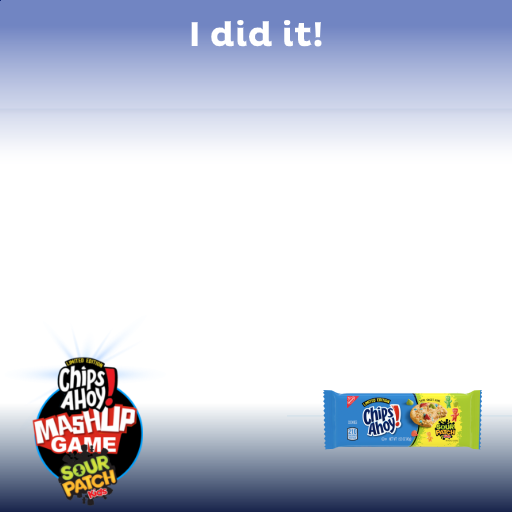
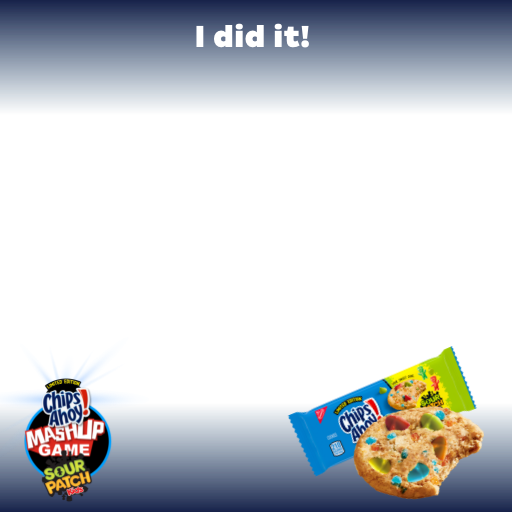
Update UI

diff --git a/www/css/main.min.css b/www/css/main.min.css
@@ -1,2 +1,2 @@
-body,button,input,select{font-size:15px}.bg-dark-custom,.bold{text-transform:uppercase}*,.wrapper-clock,.wrapper-clock *{box-sizing:border-box}*{padding:0;margin:0}a{text-decoration:none}li,ul{list-style:none}body{background-color:#317eba!important}.wrapper{min-width:100vw}button:focus,input:focus,select:focus{outline:0}.flex,.flex-align-center,.flex-between,.flex-center,.flex-justify-center,.loader-block{display:-webkit-box;display:flex}.flex-align-center,.flex-between,.flex-center,.loader-block{-webkit-box-align:center;align-items:center}.flex-center,.flex-justify-center,.loader-block{-webkit-box-pack:center;justify-content:center}.flex-between{-webkit-box-pack:justify;justify-content:space-between}.title{font-size:18px;font-weight:600;line-height:1.5}.btn-primary{width:218px;height:56px;border:0;background:#DCE23E;font-size:22px;color:#000;letter-spacing:2px;border-radius:30px}.btn-default{min-width:150px;padding-left:3px;padding-right:3px;height:45px;border-radius:30px;background:#0E6AA1;border:3px solid #1BA4FC;color:#fff;font-size:14px;letter-spacing:0}.btn-transparent{background:0 0;border:1px solid transparent}.container-custom{width:100vw;max-width:375px;margin:0 auto}.deep-yellow{color:#EED12F}.yellow-bg{background:#EED12F}.blue{color:#38E0FF}.green{color:#2FD252}.red{color:#F66E36}.mt-0{margin-top:0!important}.pt-15{padding-top:15px!important}.mt--20{margin-top:-20px}.mt--25{margin-top:-25px}.pd-8{padding:8px}.header__btn,.header__center{padding:10px}.header{width:100%;margin-bottom:25px;position:fixed;top:0;left:0;z-index:9}.header.header--game,.header.header-primary{background:#317eba}.header__btn{color:#fff;font-size:24px}.header__title{color:#fff}.header__right .btn-transparent.header__btn{opacity:0}.main.main--game{position:relative;z-index:10;pointer-events:none}.main.main--game button{pointer-events:visible}.logo{position:relative;z-index:1;overflow:hidden}.logo.logo--two-up .logo__container{overflow:hidden}.logo.logo--two-up .logo__img{margin-left:-45px;margin-top:-10px;max-width:240px}.logo.logo--two-up .logo__img img{width:100%;margin:0}.logo.logo--two-up.logo--game .logo__img{margin-left:-40px;max-width:55vw}.logo.logo--two-up.logo--selfie{padding-top:45px}.logo.logo--two-up.logo--selfie .logo__heading{position:static;-webkit-transform:none;transform:none}.logo__heading{max-width:155px;font-size:28px;line-height:calc(28/25);font-weight:400;color:#fff;position:absolute;right:25px;top:calc(50% + 25px);-webkit-transform:translateY(-50%);transform:translateY(-50%);text-align:center}.logo__container,.logo__img{position:relative}.logo__heading.logo__heading--center{max-width:100vw;margin-left:auto;margin-right:auto;margin-bottom:10px}.logo__sub-heading{margin-top:50px;padding-right:15px;font-size:45px;line-height:calc(24/45);font-weight:400;color:#fff}.logo__img{margin:-40px auto 0;max-width:calc(100vw - 40px)}.logo__img img{width:calc(100% + 60px);margin-left:-30px;height:100%;-o-object-fit:cover;object-fit:cover}.logo__img img.smallest-cookie{width:40px;height:36px;-o-object-fit:contain;object-fit:contain;left:calc(50% - 40px);bottom:25px}.logo__absolute{position:absolute}.btn-group,.face-block__container{position:relative}.mr-5{margin-right:5px}.mb-10{display:block;margin-bottom:10px!important}.mb-15{margin-bottom:15px}.mb-90{margin-bottom:90px}.mb-0{margin-bottom:0!important}.img-group__picture{max-width:185px;margin:0 auto}.img-group__picture img{-o-object-fit:contain;object-fit:contain}.img-group__container{margin-top:-20px;overflow:hidden}.img-group__smallest{height:60px}.img-group__smaller{margin-top:-25px;height:85px}.img-group__small{margin-top:-35px;height:130px}.img-group__big{margin-top:-180px;margin-left:calc(100% - 90px)}.mb-35{margin-bottom:35px}.mb-25{margin-bottom:25px}.mb-20{margin-bottom:20px!important}.try-again{max-width:250px;margin-left:auto;margin-right:auto}.play-again-icon{-webkit-transform:rotate(90deg);transform:rotate(90deg);display:block;font-size:25px}.btn-group{padding-bottom:10px;z-index:2}.btn-group button{display:block;margin:0 auto}.btn-group button.btn-primary{margin-bottom:30px}.btn-group button img{max-height:30vh}.btn-two-up button{margin-left:5px;margin-right:5px}.center-text{text-align:center}.list-number{margin-bottom:10px}.list-number.list--two-up{margin-top:10px}.list-number.list--two-up .list-number__list{padding:0 8px;-webkit-box-flex:1;flex:1}.list-number.list--two-up .list-number__item{margin-left:auto;margin-right:auto;text-align:center}.list-number.list--two-up .list-content{margin-top:0;text-align:center;font-size:15px}.list-number.list--two-up .list-number__row{margin-bottom:20px}.list-number.list-number--rules .list-number__list{padding:0 10px;color:#fff;font-family:Arial,Helvetica,sans-serif;word-break:break-word}.list-number .list-order{margin-right:5px;font-size:14px;line-height:calc(20/14)}.list-number .list-content{color:#fff;font-size:14px;font-weight:300;letter-spacing:0;line-height:calc(20/14)}.list-number__item{padding:4px 8px}.list-number__group-img{max-height:30vh;padding-right:5px}.bg-dark-custom{max-width:315px;margin:0 auto;padding:15px 10px;border-radius:31px;background:#1e588c;text-align:center}.block-countdown{min-width:58px;height:37px;margin-right:-10px;color:#111;font-size:22px;padding:13px 15px;background:#4fabfa;border-bottom-left-radius:20px;border-top-left-radius:20px}.face-block{margin-top:-95px;margin-bottom:20px}.face-block.face-block--selfie{margin-bottom:0;background:#0E6AA1}.face-block__frame{background-image:url(../img/photoframe.png);position:absolute;width:100%;height:100%;-o-object-fit:contain;object-fit:contain;top:0;background-size:cover;background-repeat:no-repeat;background-position:center}.face-block .block-center{width:180px;height:180px;position:absolute;top:50%;left:50%;-webkit-transform:translate(-50%,-50%);transform:translate(-50%,-50%);overflow:hidden}.absolute-center,.full-absolute{-webkit-transform:translate(-50%,-50%)}.face-block .block-center__inner{width:100%;height:100%;position:relative;background:rgba(13,27,48,.36);overflow:hidden;border:8px solid #4FABFA;border-radius:50%}.face-block__img{height:100vw;overflow:hidden}.face-block__img canvas,.face-block__img video{width:100%;height:100vw;-o-object-fit:cover;object-fit:cover}.face-block__img img{width:100%;height:auto}.absolute-img{width:178px;height:auto;min-height:120px;position:absolute;bottom:-75px;left:80px}.absolute-center{position:absolute;top:50%;left:50%;transform:translate(-50%,-50%)}.small-p{font-size:14px}.p{font-size:15px;font-weight:400;line-height:calc(20/14)}.bold{font-weight:700}.footer__des,.large,.sub-title{font-weight:400}.large-p{font-size:16px}.white-text{color:#fff}.footer__container{padding:30px 5px;position:relative;background:#0E6AA1}.footer__des{text-align:center;font-size:14px;line-height:calc(24/20);color:#fff}.deep-blue,.footer__des .blue{color:#4FABFA}.pb-25{padding-bottom:25px}.pb-10{padding-bottom:10px}.pb-0{padding-bottom:0!important}.camera-block{padding:20px 20px 40px;background:#0E6AA1;text-align:center}.sub-title{font-size:28px;line-height:calc(28/20)}.btn-square{width:65px;height:65px;border-radius:50%;background:#DCE23E;border:none}.btn-square i{font-size:34px}.content-block__container img{max-width:40vh}.loader-block{width:100%;height:100%;position:fixed;background:rgba(13,27,48,.36);top:0;left:0;z-index:9}.loader-block .loader{border:6px solid #f3f3f3;border-radius:50%;border-top:6px solid #3498db;width:40px;height:40px;-webkit-animation:spin 2s linear infinite;animation:spin 2s linear infinite}@-webkit-keyframes spin{0%{-webkit-transform:rotate(0)}100%{-webkit-transform:rotate(360deg)}}@keyframes spin{0%{-webkit-transform:rotate(0);transform:rotate(0)}100%{-webkit-transform:rotate(360deg);transform:rotate(360deg)}}.face-block__top{position:absolute;width:100%;padding:10px 20px;left:0;top:0}.font-large-title{font-size:28px;line-height:calc(30/30)}.font-large-des{font-size:24px;line-height:calc(20/24)}.face-block__bottom{width:100%;padding:0 5px 30px;margin-top:-10px;color:#fff;text-align:center}.face-block__bottom i{margin-right:5px;font-size:18px}.face-block__bottom span{font-weight:400;display:block;font-size:12px}.large{font-size:23px;white-space:nowrap}.topping{position:absolute;width:60px}.full-absolute,.group-candy{width:100vw;position:absolute}.topping-blue{bottom:20px;right:40px}.topping-green{left:10px;bottom:20px}.topping-orange{left:20px;top:5px}.topping-red{top:10px;right:10px}.full-absolute{height:100vh;top:50%;left:50%;transform:translate(-50%,-50%);z-index:3}.group-candy{top:-26px;left:0}.group-candy .circle-candy{width:45px;height:45px;margin:0 3px;border:3px solid #4FABFA;border-radius:50%;background:rgba(14,106,161,.53)}.group-candy .circle-candy img{width:22px}.clock-block{position:relative}.clock-block img{width:60px}.clock-inner{width:34px;height:34px;border:2px solid #fff;position:absolute;left:13px;top:16px;border-radius:50%}.wrapper-clock{background:#fff;width:30px;height:30px;border:1px solid #122641;overflow:hidden;position:absolute;top:50%;left:50%;-webkit-transform:translate(-50%,-50%);transform:translate(-50%,-50%);border-radius:50%}.wrapper-clock .pie{width:50%;height:100%;-webkit-transform-origin:100% 50%;transform-origin:100% 50%;position:absolute;background:#122641;border:0 solid rgba(0,0,0,.5)}.wrapper-clock .spinner{border-radius:100% 0 0 100%/50% 0 0 50%;z-index:200;border-right:none}.wrapper-clock:hover .filler,.wrapper-clock:hover .mask,.wrapper-clock:hover .spinner{-webkit-animation-play-state:running;animation-play-state:running}.wrapper-clock .filler{border-radius:0 100% 100% 0/0 50% 50% 0;left:calc(50% + 1px);opacity:0;z-index:100;border-left:none}.wrapper-clock-custom .filler{animation:opa 32s steps(1,end) forwards reverse}.wrapper-clock-custom .spinner{-webkit-animation:rota 32s linear forwards;animation:rota 32s linear forwards}.wrapper-clock-custom .mask{-webkit-animation:opa 32s steps(1,end) forwards;animation:opa 32s steps(1,end) forwards}.wrapper-clock .mask{width:50%;height:100%;position:absolute;background:inherit;opacity:1;z-index:300;border-top-left-radius:50%;border-bottom-left-radius:50%}@-webkit-keyframes rota{0%{-webkit-transform:rotate(0);transform:rotate(0)}100%{-webkit-transform:rotate(360deg);transform:rotate(360deg)}}@keyframes rota{0%{-webkit-transform:rotate(0);transform:rotate(0)}100%{-webkit-transform:rotate(360deg);transform:rotate(360deg)}}@-webkit-keyframes opa{0%{opacity:1}100%,50%{opacity:0}}@keyframes opa{0%{opacity:1}100%,50%{opacity:0}}.camera-block h3.deep-yellow.sub-title{font-size:24px}
+body,button,input,select{font-size:15px}.bg-dark-custom,.bold{text-transform:uppercase}*,.wrapper-clock,.wrapper-clock *{box-sizing:border-box}*{padding:0;margin:0}a{text-decoration:none}li,ul{list-style:none}body{background-color:#317eba!important}.wrapper{min-width:100vw}button:focus,input:focus,select:focus{outline:0}.flex,.flex-align-center,.flex-between,.flex-center,.flex-justify-center,.loader-block{display:-webkit-box;display:flex}.flex-align-center,.flex-between,.flex-center,.loader-block{-webkit-box-align:center;align-items:center}.flex-center,.flex-justify-center,.loader-block{-webkit-box-pack:center;justify-content:center}.flex-between{-webkit-box-pack:justify;justify-content:space-between}.title{font-size:18px;font-weight:600;line-height:1.5}.btn-primary{width:218px;height:56px;border:0;background:#DCE23E;font-size:22px;color:#000;letter-spacing:2px;border-radius:30px}.btn-default{min-width:150px;padding-left:3px;padding-right:3px;height:45px;border-radius:30px;background:#0E6AA1;border:3px solid #1BA4FC;color:#fff;font-size:14px;letter-spacing:0}.btn-transparent{background:0 0;border:1px solid transparent}.container-custom{width:100vw;max-width:375px;margin:0 auto}.deep-yellow{color:#EED12F}.yellow-bg{background:#EED12F}.blue{color:#38E0FF}.green{color:#2FD252}.red{color:#F66E36}.mt-0{margin-top:0!important}.pt-15{padding-top:15px!important}.mt--20{margin-top:-20px}.mt--25{margin-top:-25px}.pd-8{padding:8px}.header__btn,.header__center{padding:10px}.header{width:100%;margin-bottom:25px;position:fixed;top:0;left:0;z-index:9}.header.header--game,.header.header-primary{background:#317eba}.header__btn{color:#fff;font-size:24px}.header__title{color:#fff}.header__right .btn-transparent.header__btn{opacity:0}.main.main--game{position:relative;z-index:10;pointer-events:none}.main.main--game button{pointer-events:visible}.logo{position:relative;z-index:1;overflow:hidden}.logo.logo--two-up .logo__container{overflow:hidden}.logo.logo--two-up .logo__img{margin-left:5px;margin-top:25px;max-width:120px}.logo.logo--two-up .logo__img img{width:100%;margin:0}.logo.logo--two-up.logo--game .logo__img{margin-left:10px;max-width:100px;margin-top:30px}.logo.logo--two-up.logo--selfie{padding-top:45px}.logo.logo--two-up.logo--selfie .logo__heading{position:static;-webkit-transform:none;transform:none}.logo__heading{max-width:155px;font-size:28px;line-height:calc(28/25);font-weight:400;color:#fff;position:absolute;right:25px;top:calc(50% + 25px);-webkit-transform:translateY(-50%);transform:translateY(-50%);text-align:center}.logo__container,.logo__img{position:relative}.logo__heading.logo__heading--center{max-width:100vw;margin-left:auto;margin-right:auto;margin-bottom:10px}.logo__sub-heading{margin-top:50px;padding-right:15px;font-size:45px;line-height:calc(24/45);font-weight:400;color:#fff}.logo__img{margin:60px auto 0;max-width:50vw}.logo__img img{width:100%;-o-object-fit:cover;object-fit:cover}.logo__img img.smallest-cookie{width:40px;height:36px;-o-object-fit:contain;object-fit:contain;left:calc(50% - 40px);bottom:25px}.logo__absolute{position:absolute}.btn-group,.face-block__container{position:relative}.mr-5{margin-right:5px}.mb-10{display:block;margin-bottom:10px!important}.mb-5{margin-bottom:5px!important}.mb-15{margin-bottom:15px}.mb-90{margin-bottom:90px}.mb-0{margin-bottom:0!important}.img-group__picture{max-width:185px;margin:0 auto}.img-group__picture img{-o-object-fit:contain;object-fit:contain}.img-group__container{margin-top:-20px;overflow:hidden}.img-group__smallest{height:60px}.img-group__smaller{margin-top:-25px;height:85px}.img-group__small{margin-top:-35px;height:130px}.img-group__big{margin-top:-180px;margin-left:calc(100% - 90px)}.mb-35{margin-bottom:35px}.mb-25{margin-bottom:25px}.mb-20{margin-bottom:20px!important}.try-again{max-width:250px;margin-left:auto;margin-right:auto}.play-again-icon{-webkit-transform:rotate(90deg);transform:rotate(90deg);display:block;font-size:25px}.btn-group{padding-bottom:10px;z-index:2}.btn-group button{display:block;margin:0 auto}.btn-group button.btn-primary{margin-bottom:30px}.btn-group button img{max-height:30vh}.btn-two-up button{margin-left:5px;margin-right:5px}.center-text{text-align:center}.list-number{margin-bottom:10px}.list-number.list--two-up{margin-top:10px}.list-number.list--two-up .list-number__list{padding:0 8px;-webkit-box-flex:1;flex:1}.list-number.list--two-up .list-number__item{margin-left:auto;margin-right:auto;text-align:center}.list-number.list--two-up .list-content{margin-top:0;text-align:center;font-size:15px}.list-number.list--two-up .list-number__row{margin-bottom:20px}.list-number.list-number--rules .list-number__list{padding:0 10px;color:#fff;font-family:Arial,Helvetica,sans-serif;word-break:break-word}.list-number .list-order{margin-right:5px;font-size:14px;line-height:calc(20/14)}.list-number .list-content{color:#fff;font-size:14px;font-weight:300;letter-spacing:0;line-height:calc(20/14)}.list-number__item{padding:4px 8px}.list-number__group-img{max-height:30vh;padding-right:5px}.bg-dark-custom{max-width:315px;margin:0 auto;padding:15px 10px;border-radius:31px;background:#1e588c;text-align:center}.block-countdown{min-width:58px;height:37px;margin-right:-10px;color:#111;font-size:22px;padding:13px 15px;background:#4fabfa;border-bottom-left-radius:20px;border-top-left-radius:20px}.face-block{margin-top:-95px;margin-bottom:20px}.face-block.face-block--selfie{margin-bottom:0;background:#0E6AA1}.face-block__frame{background-image:url(../img/photoframe.png);position:absolute;width:100%;height:100%;-o-object-fit:contain;object-fit:contain;top:0;background-size:cover;background-repeat:no-repeat;background-position:center}.face-block .block-center{width:180px;height:180px;position:absolute;top:50%;left:50%;-webkit-transform:translate(-50%,-50%);transform:translate(-50%,-50%);overflow:hidden}.absolute-center,.full-absolute{-webkit-transform:translate(-50%,-50%)}.face-block .block-center__inner{width:100%;height:100%;position:relative;background:rgba(13,27,48,.36);overflow:hidden;border:8px solid #4FABFA;border-radius:50%}.face-block__img{height:100vw;overflow:hidden}.face-block__img canvas,.face-block__img video{width:100%;height:100vw;-o-object-fit:cover;object-fit:cover}.face-block__img img{width:100%;height:auto}.absolute-img{width:178px;height:auto;min-height:120px;position:absolute;bottom:-75px;left:80px}.absolute-center{position:absolute;top:50%;left:50%;transform:translate(-50%,-50%)}.small-p{font-size:14px}.p{font-size:15px;font-weight:400;line-height:calc(20/14)}.bold{font-weight:700}.footer__des,.large,.sub-title{font-weight:400}.large-p{font-size:16px}.white-text{color:#fff}.footer__container{padding:30px 5px;position:relative;background:#0E6AA1}.footer__des{text-align:center;font-size:14px;line-height:calc(24/20);color:#fff}.deep-blue,.footer__des .blue{color:#4FABFA}.pb-25{padding-bottom:25px}.pb-10{padding-bottom:10px}.pb-0{padding-bottom:0!important}.camera-block{padding:15px 20px;margin-bottom:15px;background:#0E6AA1;text-align:center}.sub-title{font-size:28px;line-height:calc(28/20)}.btn-square{width:65px;height:65px;border-radius:50%;background:#DCE23E;border:none}.btn-square i{font-size:34px}.content-block__container img{max-width:40vh}.loader-block{width:100%;height:100%;position:fixed;background:rgba(13,27,48,.36);top:0;left:0;z-index:9}.loader-block .loader{border:6px solid #f3f3f3;border-radius:50%;border-top:6px solid #3498db;width:40px;height:40px;-webkit-animation:spin 2s linear infinite;animation:spin 2s linear infinite}@-webkit-keyframes spin{0%{-webkit-transform:rotate(0)}100%{-webkit-transform:rotate(360deg)}}@keyframes spin{0%{-webkit-transform:rotate(0);transform:rotate(0)}100%{-webkit-transform:rotate(360deg);transform:rotate(360deg)}}.face-block__top{position:absolute;width:100%;padding:10px 20px;left:0;top:0}.font-large-title{font-size:28px;line-height:calc(30/30)}.font-large-des{font-size:24px;line-height:calc(20/24)}.face-block__bottom{width:100%;padding:0 5px 30px;margin-top:-10px;color:#fff;text-align:center}.face-block__bottom i{margin-right:5px;font-size:18px}.face-block__bottom span{font-weight:400;display:block;font-size:12px}.large{font-size:23px;white-space:nowrap}.topping{position:absolute;width:60px}.full-absolute,.group-candy{width:100vw;position:absolute}.topping-blue{bottom:20px;right:40px}.topping-green{left:10px;bottom:20px}.topping-orange{left:20px;top:5px}.topping-red{top:10px;right:10px}.full-absolute{height:100vh;top:50%;left:50%;transform:translate(-50%,-50%);z-index:3}.group-candy{top:-26px;left:0}.group-candy .circle-candy{width:45px;height:45px;margin:0 3px;border:3px solid #4FABFA;border-radius:50%;background:rgba(14,106,161,.53)}.group-candy .circle-candy img{width:22px}.clock-block{position:relative}.clock-block img{width:60px}.clock-inner{width:34px;height:34px;border:2px solid #fff;position:absolute;left:13px;top:16px;border-radius:50%}.wrapper-clock{background:#fff;width:30px;height:30px;border:1px solid #122641;overflow:hidden;position:absolute;top:50%;left:50%;-webkit-transform:translate(-50%,-50%);transform:translate(-50%,-50%);border-radius:50%}.wrapper-clock .pie{width:50%;height:100%;-webkit-transform-origin:100% 50%;transform-origin:100% 50%;position:absolute;background:#122641;border:0 solid rgba(0,0,0,.5)}.wrapper-clock .spinner{border-radius:100% 0 0 100%/50% 0 0 50%;z-index:200;border-right:none}.wrapper-clock:hover .filler,.wrapper-clock:hover .mask,.wrapper-clock:hover .spinner{-webkit-animation-play-state:running;animation-play-state:running}.wrapper-clock .filler{border-radius:0 100% 100% 0/0 50% 50% 0;left:calc(50% + 1px);opacity:0;z-index:100;border-left:none}.wrapper-clock-custom .filler{animation:opa 32s steps(1,end) forwards reverse}.wrapper-clock-custom .spinner{-webkit-animation:rota 32s linear forwards;animation:rota 32s linear forwards}.wrapper-clock-custom .mask{-webkit-animation:opa 32s steps(1,end) forwards;animation:opa 32s steps(1,end) forwards}.wrapper-clock .mask{width:50%;height:100%;position:absolute;background:inherit;opacity:1;z-index:300;border-top-left-radius:50%;border-bottom-left-radius:50%}@-webkit-keyframes rota{0%{-webkit-transform:rotate(0);transform:rotate(0)}100%{-webkit-transform:rotate(360deg);transform:rotate(360deg)}}@keyframes rota{0%{-webkit-transform:rotate(0);transform:rotate(0)}100%{-webkit-transform:rotate(360deg);transform:rotate(360deg)}}@-webkit-keyframes opa{0%{opacity:1}100%,50%{opacity:0}}@keyframes opa{0%{opacity:1}100%,50%{opacity:0}}.camera-block h3.deep-yellow.sub-title{font-size:24px}
 /*# sourceMappingURL=main.min.css.map */

diff --git a/www/scss/main.scss b/www/scss/main.scss
@@ -196,9 +196,13 @@ input, button, select {
             overflow: hidden;
         }
         .logo__img {
-            margin-left: -45px;
-            margin-top: -10px;
-            max-width: 240px;
+            // margin-left: -45px;
+            // margin-top: -10px;
+            // max-width: 240px;
+            margin-left: 5px;
+            margin-top: 25px;
+            max-width: 120px;
+
             img {
                 width: 100%;
                 margin: 0;
@@ -206,8 +210,9 @@ input, button, select {
         }
         &.logo--game {
             .logo__img {
-                margin-left: -40px;
-                max-width: 55vw;
+                margin-left: 10px;
+                max-width: 100px;
+                margin-top: 30px;
             }
         }
         &.logo--selfie {
@@ -245,13 +250,11 @@ input, button, select {
         color: #fff;
     }
     &__img {
-        margin: -40px auto 0;
-        max-width: calc(100vw - 40px);
+        margin: 60px auto 0;
+        max-width: 50vw;
         position: relative;
         img {
-           width: calc(100% + 60px);
-           margin-left: -30px;
-           height: 100%;
+           width: 100%;
            object-fit: cover;
            &.smallest-cookie {
                 width: 40px;
@@ -278,6 +281,10 @@ input, button, select {
 .mb-10 {
     display: block;
     margin-bottom: 10px !important;
+}
+
+.mb-5 {
+    margin-bottom: 5px !important;
 }
 
 .mb-15 {
@@ -573,7 +580,8 @@ input, button, select {
 }
 
 .camera-block {
-    padding: 20px 20px 40px;
+    padding: 15px 20px;
+    margin-bottom: 15px;
     background: #0E6AA1;
     text-align: center;
 }

diff --git a/www/how.html b/www/how.html
@@ -41,7 +41,7 @@
                         <img src="img/logo.png" />
                     </div>
                     <h3 class="center-text logo__heading">
-                        <span class="mb-10">How does it work?</span>
+                        <!-- <span class="mb-10">How does it work?</span> -->
                         <button class="btn-default btn-router" url="game.html">Play Now</button>
                     </h3>
                 </div>
@@ -50,16 +50,16 @@
                 <div class="container-custom list-number__container">
                     <div class="flex list-number__row">
                         <div class="list-number__list">
-                            <div class="list-number__item mb-10">
+                            <div class="list-number__item mb-5">
                                 <span class="list-content">
                                     How many candies can you place in 30 seconds?
                                 </span>
                             </div>
-                            <div class="list-number__item mb-10">
+                            <div class="list-number__item mb-5">
                                 <span class="list-content">
                                     Blink when the cookie moves
                                     into the circle to
-                                    place candy pieces
+                                    place candy pieces.
                                 </span>
                             </div>
                             <div class="list-number__item">

diff --git a/www/css/main.css b/www/css/main.css
@@ -137,15 +137,16 @@ input, button, select {
   .logo.logo--two-up .logo__container {
     overflow: hidden; }
   .logo.logo--two-up .logo__img {
-    margin-left: -45px;
-    margin-top: -10px;
-    max-width: 240px; }
+    margin-left: 5px;
+    margin-top: 25px;
+    max-width: 120px; }
     .logo.logo--two-up .logo__img img {
       width: 100%;
       margin: 0; }
   .logo.logo--two-up.logo--game .logo__img {
-    margin-left: -40px;
-    max-width: 55vw; }
+    margin-left: 10px;
+    max-width: 100px;
+    margin-top: 30px; }
   .logo.logo--two-up.logo--selfie {
     padding-top: 45px; }
     .logo.logo--two-up.logo--selfie .logo__heading {
@@ -177,13 +178,11 @@ input, button, select {
     font-weight: 400;
     color: #fff; }
   .logo__img {
-    margin: -40px auto 0;
-    max-width: calc(100vw - 40px);
+    margin: 60px auto 0;
+    max-width: 50vw;
     position: relative; }
     .logo__img img {
-      width: calc(100% + 60px);
-      margin-left: -30px;
-      height: 100%;
+      width: 100%;
       -o-object-fit: cover;
          object-fit: cover; }
       .logo__img img.smallest-cookie {
@@ -205,6 +204,9 @@ input, button, select {
 .mb-10 {
   display: block;
   margin-bottom: 10px !important; }
+
+.mb-5 {
+  margin-bottom: 5px !important; }
 
 .mb-15 {
   margin-bottom: 15px; }
@@ -444,7 +446,8 @@ input, button, select {
   padding-bottom: 0 !important; }
 
 .camera-block {
-  padding: 20px 20px 40px;
+  padding: 15px 20px;
+  margin-bottom: 15px;
   background: #0E6AA1;
   text-align: center; }
 

diff --git a/www/index.html b/www/index.html
@@ -49,7 +49,7 @@
                 <button class="btn-transparent mb-10"><a href="game.html"><img src="img/play-now.png"/></a></button>
                 <!-- <button class="btn-primary btn-router" url="game.html">PLAY NOW</button> -->
                 <div class="flex-center btn-two-up">
-                    <button class="btn-default btn-router" url="rules.html">Competition  Rules</button>
+                    <button class="btn-default btn-router" url="rules.html">Sweepstakes Rules</button>
                     <button class="btn-default btn-router" url="how.html">How to Play</button>
                 </div>
                 

diff --git a/www/welldone.html b/www/welldone.html
@@ -56,9 +56,9 @@
                             to enter into the <span class="deep-yellow">sweepstakes</span>!
                         </p>
                     </div>
-                    <div class="mt--25 flex-center mb-20">
+                    <!-- <div class="mt--25 flex-center mb-20">
                         <img  style="max-width: 160px" src="img/group-welldone.png">
-                    </div>
+                    </div> -->
                     <p class="p white-text center-text">
                         Now experience the TASTE. <br />
                         Buy a pack of Limited Edition cookies

diff --git a/www/rules.html b/www/rules.html
@@ -25,7 +25,7 @@
                     </button>
                 </div>
                 <div class="header__center">
-                    <h3 class="title header__title">Competion Rules</h3>
+                    <h3 class="title header__title">Sweepstakes Rules</h3>
                 </div>
                 <div class="header__right">
                     <button class="btn-transparent header__btn" id="btn-home">
